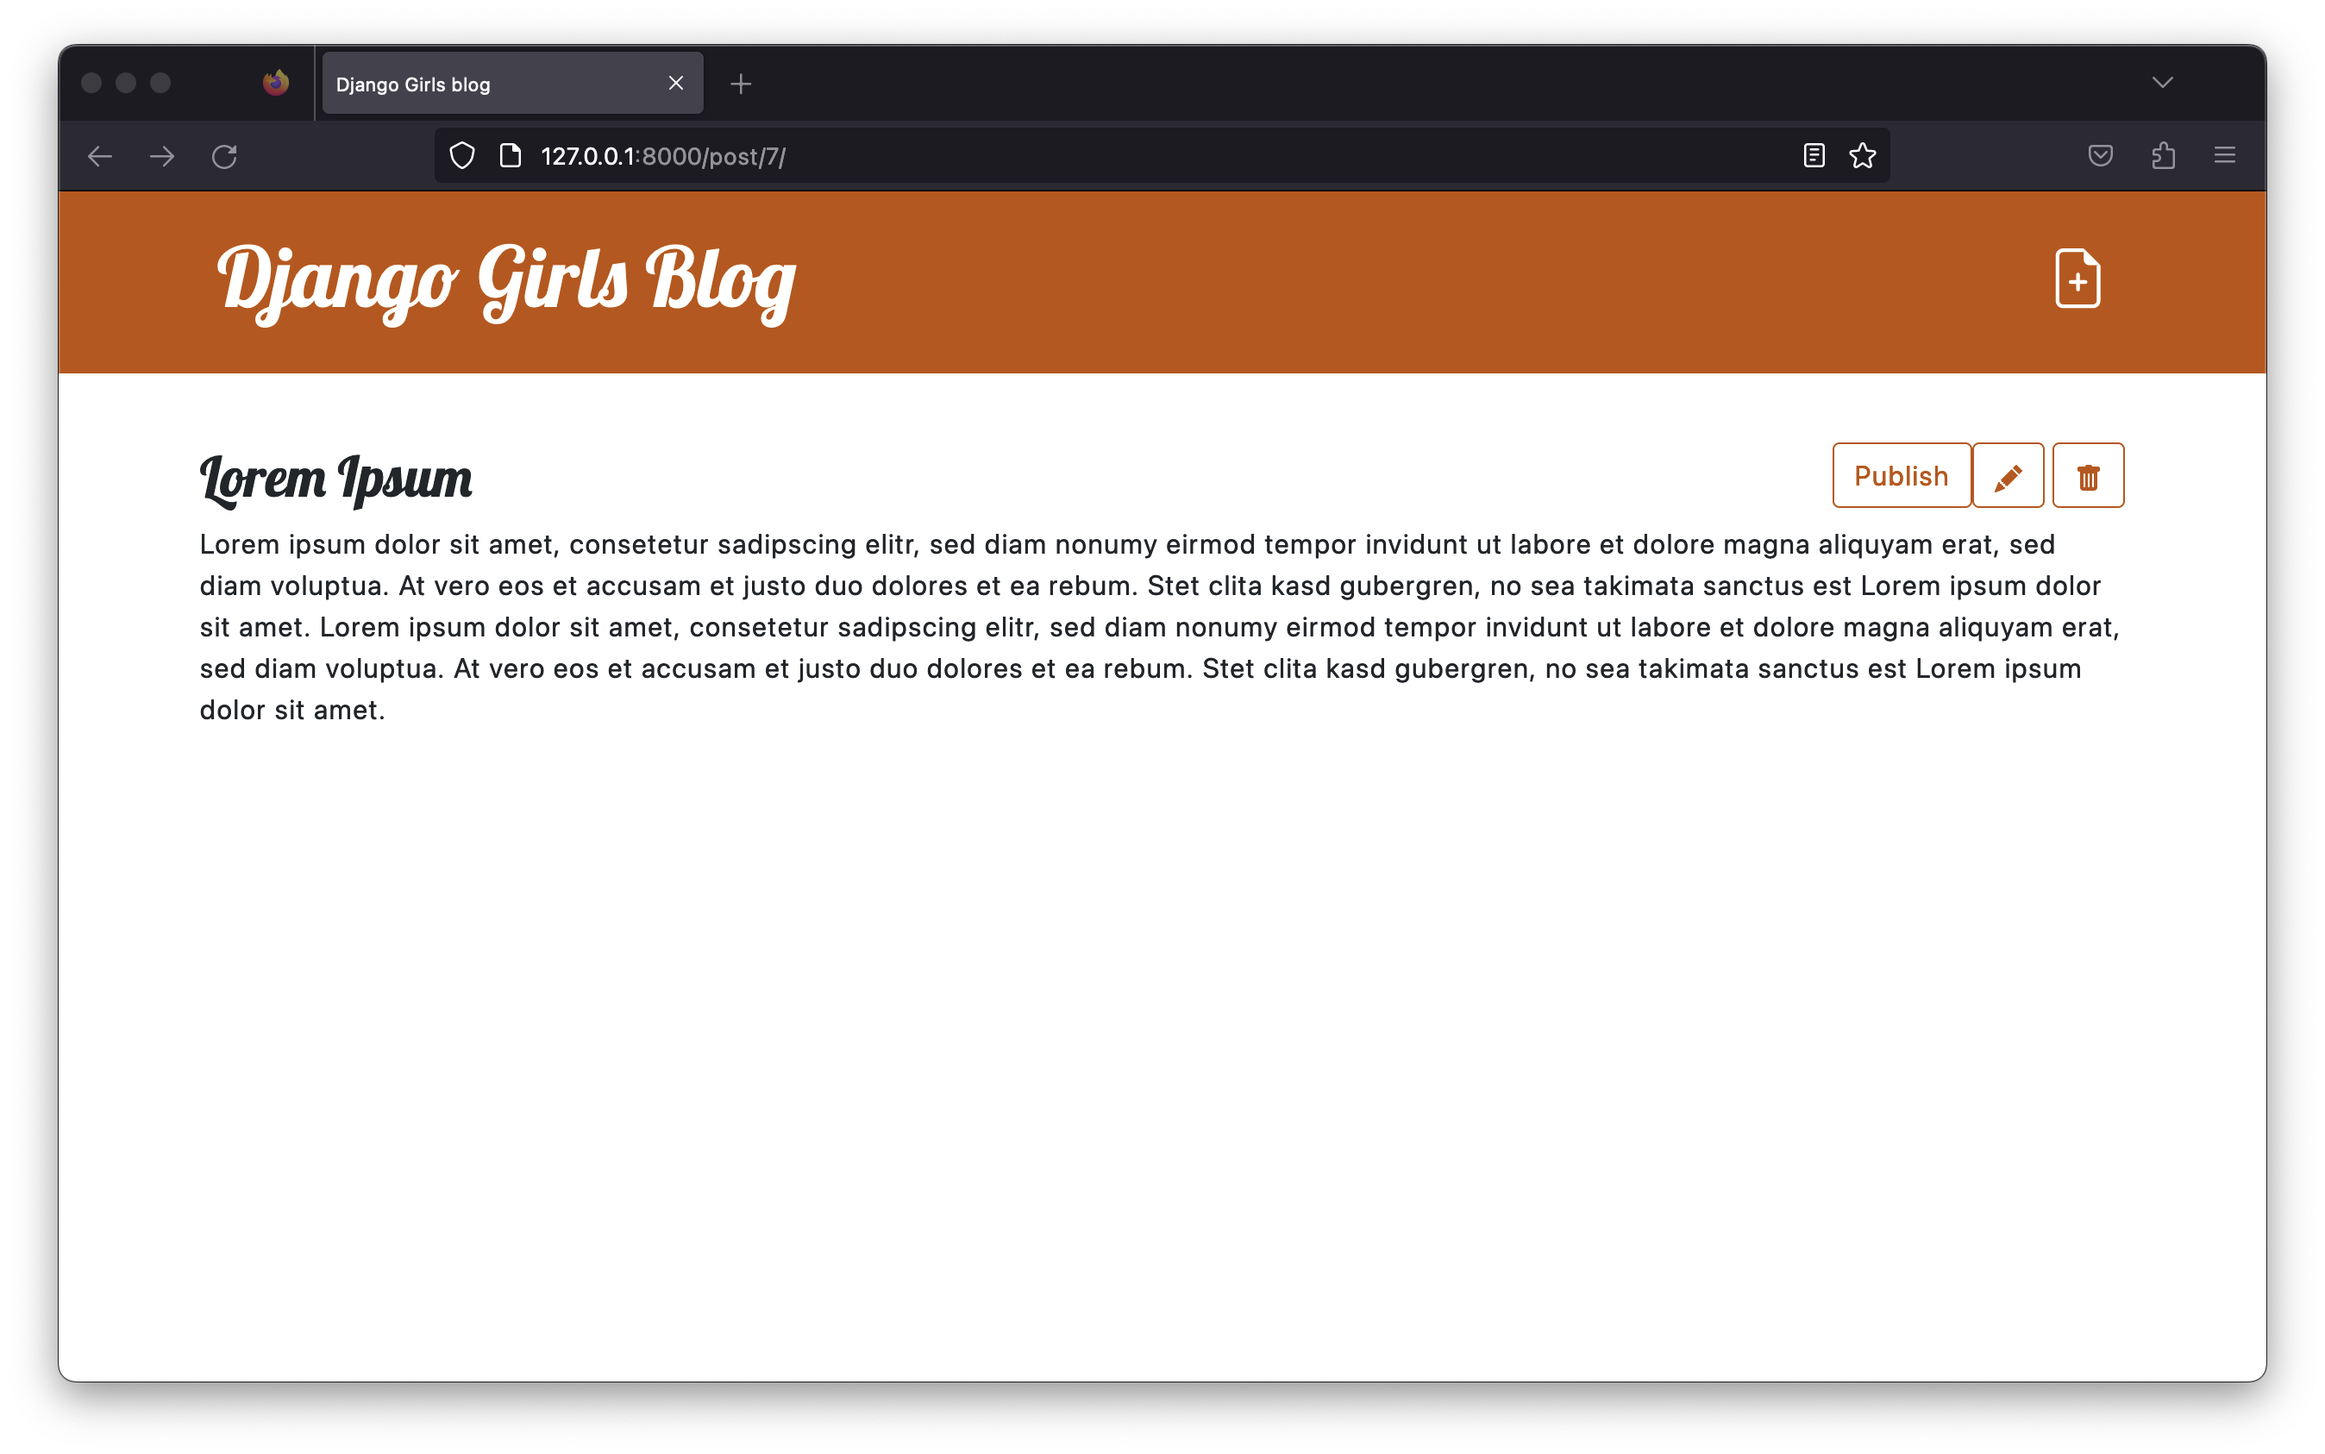
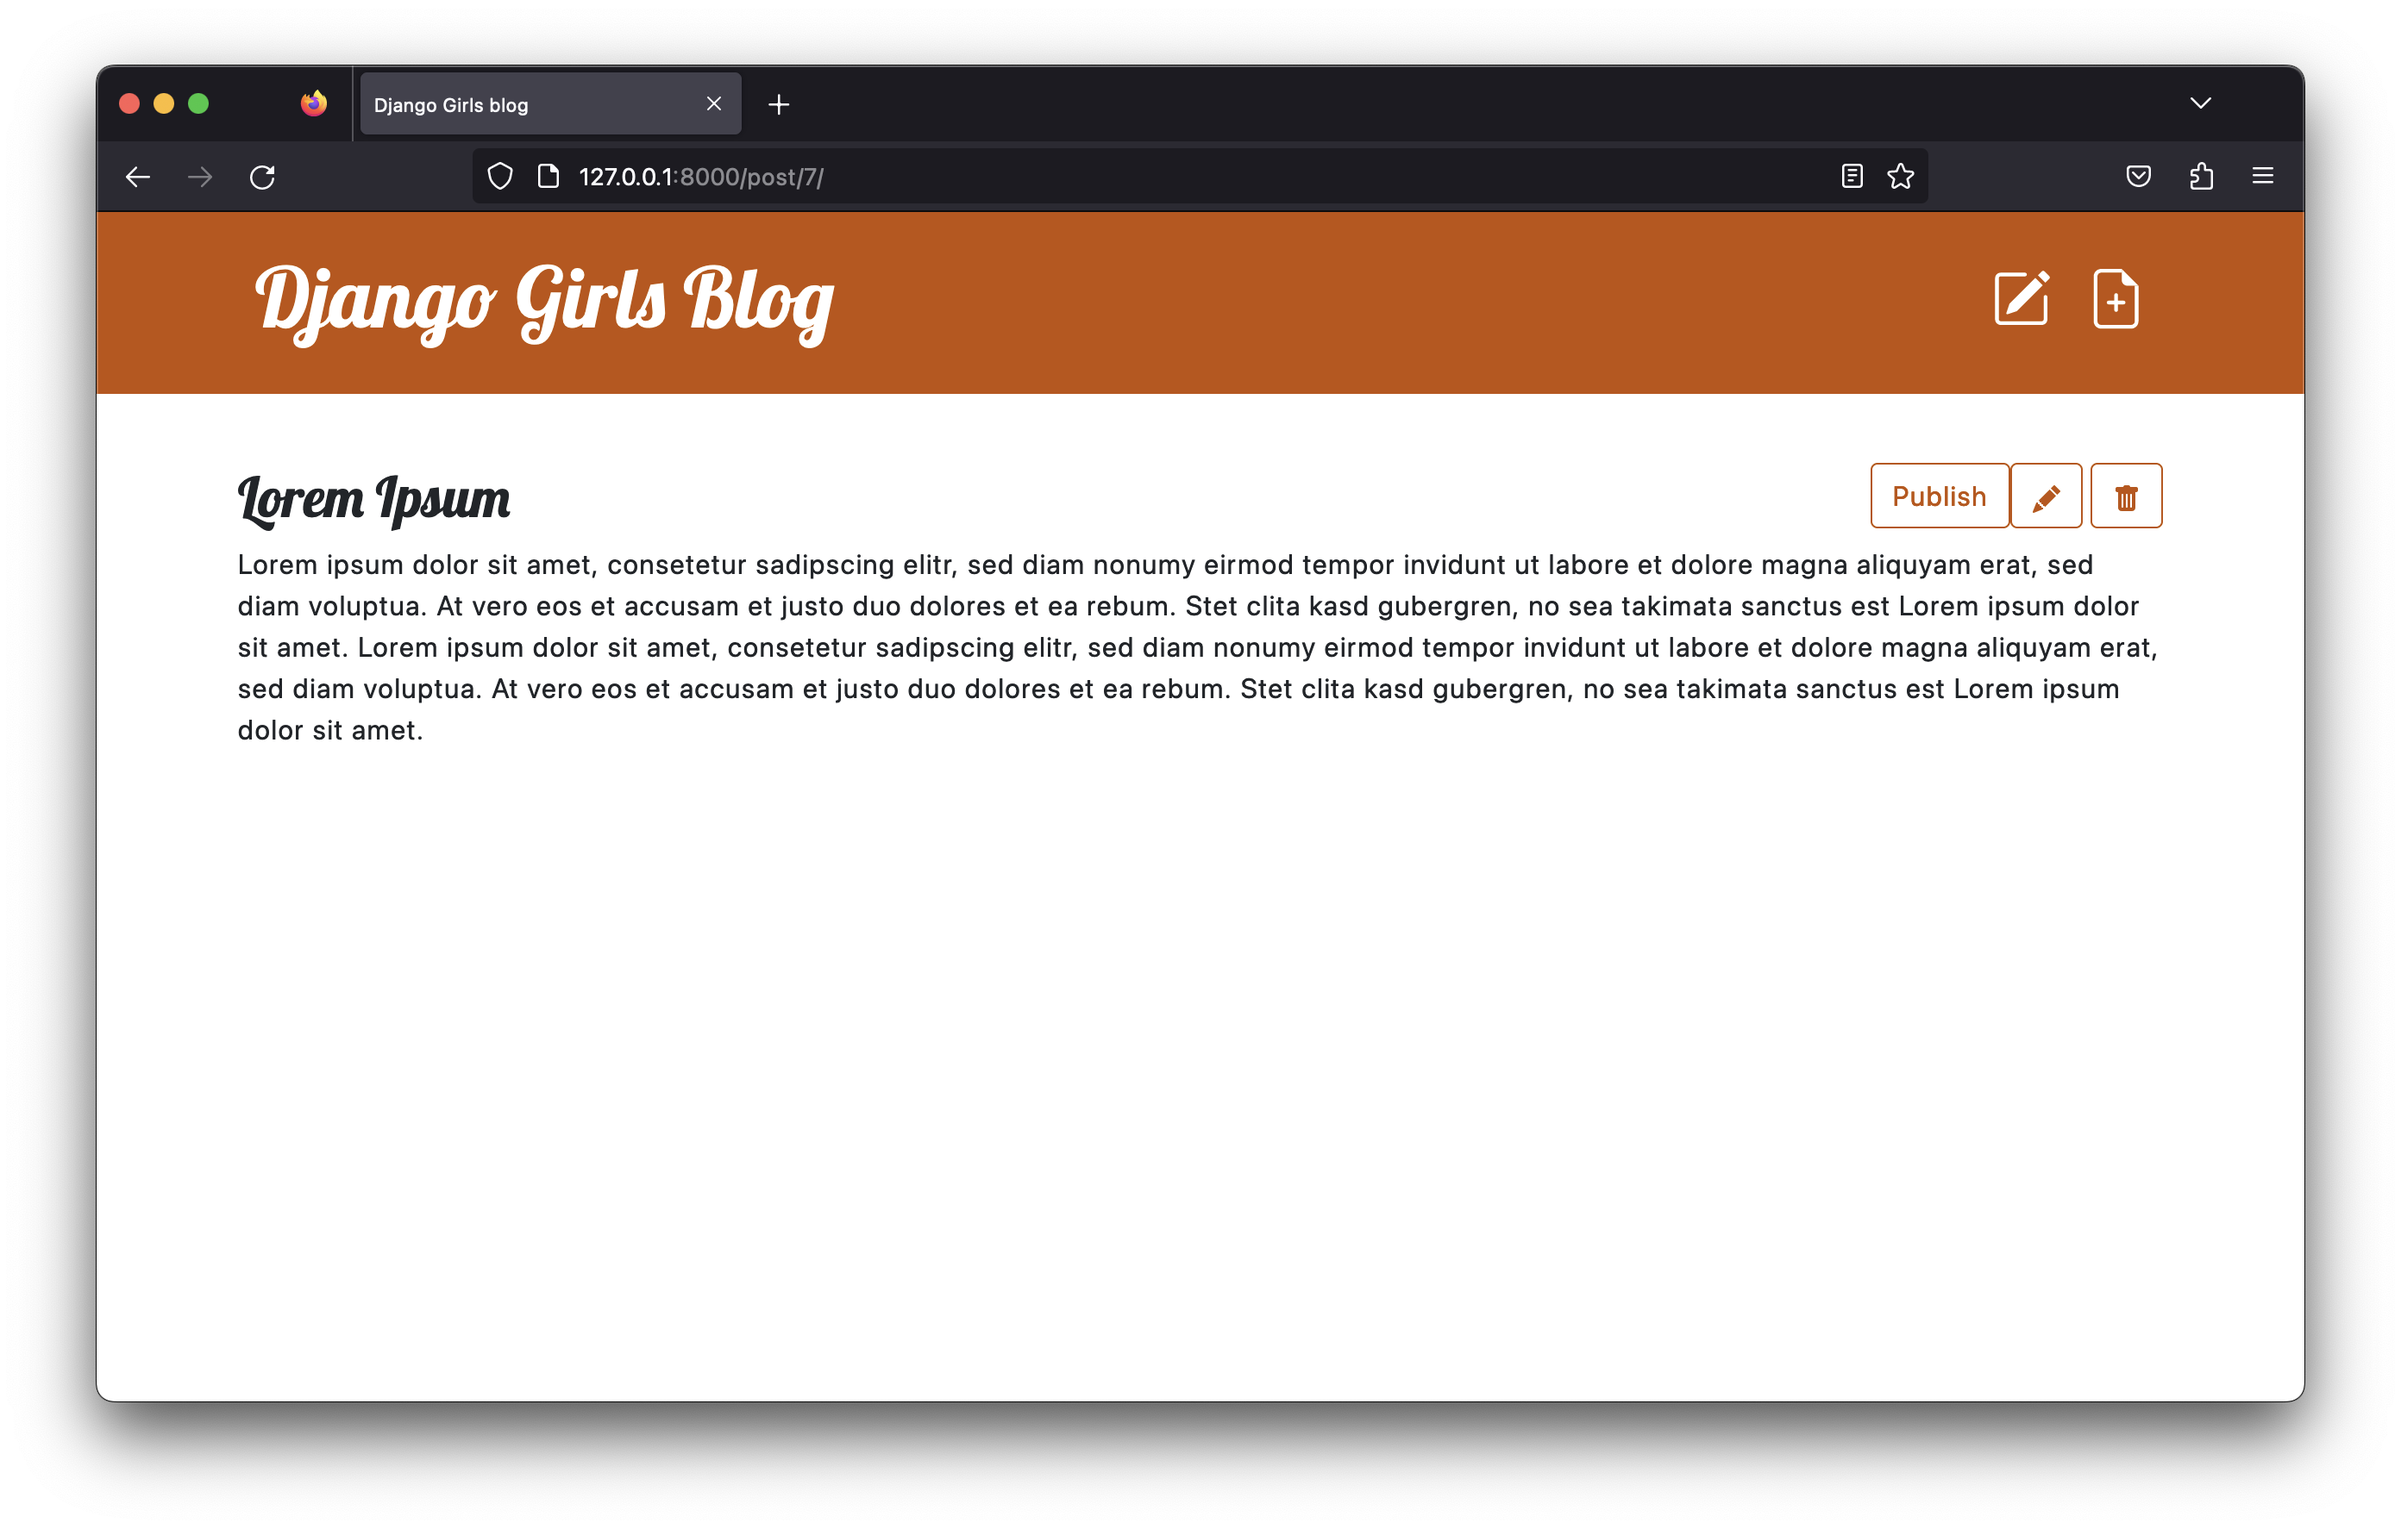
Update homework tutorial

Changed region(s): [[0.0, 0.0308, 0.997, 0.987]]

diff --git a/en/authentication_authorization/README.md b/en/authentication_authorization/README.md
@@ -96,30 +96,34 @@ We already set things up so that only authorized users (i.e. us) see the buttons
 We will add a login button that looks like this:
 
 ```django
-    <a href="{% url 'login' %}" class="top-menu"><span class="glyphicon glyphicon-lock"></span></a>
+    <a href="{% url 'login' %}" class="top-menu">{% include './icons/lock-fill.svg' %}</a>
 ```
 
 For this we need to edit the templates, so let's open up `blog/templates/blog/base.html` and change it so the part between the `<body>` tags looks like this:
 
 ```django
 <body>
-    <div class="page-header">
-        {% if user.is_authenticated %}
-            <a href="{% url 'post_new' %}" class="top-menu"><span class="glyphicon glyphicon-plus"></span></a>
-            <a href="{% url 'post_draft_list' %}" class="top-menu"><span class="glyphicon glyphicon-edit"></span></a>
-        {% else %}
-            <a href="{% url 'login' %}" class="top-menu"><span class="glyphicon glyphicon-lock"></span></a>
-        {% endif %}
-        <h1><a href="/">Django Girls Blog</a></h1>
-    </div>
-    <div class="content container">
+    <header class="page-header">
+        <div class="container">
+            {% if user.is_authenticated %}
+            <a href="{% url 'post_new' %}" class="top-menu">
+                {% include './icons/file-earmark-plus.svg' %}
+            </a>
+            <a href="{% url 'post_draft_list' %}" class="top-menu">{% include './icons/pencil-square.svg'%}</a>
+            {% else %}
+            <a href="{% url 'login' %}" class="top-menu">{% include './icons/lock-fill.svg' %}</a>
+            {% endif %}
+            <h1><a href="/">Django Girls Blog</a></h1>
+        </div>
+    </header>
+    <main class="content container">
         <div class="row">
-            <div class="col-md-8">
-            {% block content %}
-            {% endblock %}
+            <div class="col">
+                {% block content %}
+                {% endblock %}
             </div>
         </div>
-    </div>
+    </main>
 </body>
 ```
 
@@ -130,16 +134,20 @@ You might recognize the pattern here. There is an if-condition in the template t
 Let's add some sugar to our templates while we're at it. First we will add some details to show when we are logged in. Edit `blog/templates/blog/base.html` like this:
 
 ```django
-<div class="page-header">
-    {% if user.is_authenticated %}
-        <a href="{% url 'post_new' %}" class="top-menu"><span class="glyphicon glyphicon-plus"></span></a>
-        <a href="{% url 'post_draft_list' %}" class="top-menu"><span class="glyphicon glyphicon-edit"></span></a>
-        <p class="top-menu">Hello {{ user.username }} <small>(<a href="{% url 'logout' %}">Log out</a>)</small></p>
-    {% else %}
-        <a href="{% url 'login' %}" class="top-menu"><span class="glyphicon glyphicon-lock"></span></a>
-    {% endif %}
-    <h1><a href="/">Django Girls Blog</a></h1>
-</div>
+<header class="page-header">
+        <div class="container">
+            {% if user.is_authenticated %}
+            <a href="{% url 'post_new' %}" class="top-menu">
+                {% include './icons/file-earmark-plus.svg' %}
+            </a>
+            <a href="{% url 'post_draft_list' %}" class="top-menu">{% include './icons/pencil-square.svg'%}</a>
+            <p id="logout" class="top-menu">Hello {{ user.username }} <small><a href="{% url 'logout' %}">(Log out)</a></small></p>
+            {% else %}
+            <a href="{% url 'login' %}" class="top-menu">{% include './icons/lock-fill.svg' %}</a>
+            {% endif %}
+            <h1><a href="/">Django Girls Blog</a></h1>
+        </div>
+    </header>
 ```
 
 This adds a nice "Hello _&lt;username&gt;_" to remind us who we are logged in as, and that we are authenticated. Also, this adds a link to log out of the blog -- but as you might notice this isn't working yet. Let's fix it!
@@ -161,6 +169,23 @@ urlpatterns = [
     path('', include('blog.urls')),
 ]
 ```
+Let's also add this to our `blog.css` file for the proper styling of our login:
+
+```css
+#logout {
+    font-family: 'Lobster', cursive;
+
+}
+
+small a,
+small a:hover,
+small a:visited {
+    font-size: 15pt;
+    color: #ffffff;
+    text-decoration: none;
+}
+```
+![Publish button](images/loggdin.png)
 
 That's it! If you followed all of the above up to this point (and did the homework), you now have a blog where you
 

diff --git a/en/homework_create_more_models/README.md b/en/homework_create_more_models/README.md
@@ -158,7 +158,7 @@ from .models import Post, Comment
 Now, go to `blog/templates/blog/post_detail.html` and before the line {% raw %}`{% for comment in post.comments.all %}`{% endraw %}, add:
 
 ```django
-<a class="btn btn-default" href="{% url 'add_comment_to_post' pk=post.pk %}">Add comment</a>
+<a class="btn btn-secondary" role="button" href="{% url 'add_comment_to_post' pk=post.pk %}">Add comment</a>
 ```
 
 If you go to the post detail page you should see this error:
@@ -201,7 +201,7 @@ from .forms import PostForm, CommentForm
 
 Now, on the post detail page, you should see the "Add Comment" button.
 
-![AddComment](images/add_comment_button.png)
+![AddComment](images/add_comment_button1.png)
 
 However, when you click that button, you'll see:
 
@@ -214,11 +214,11 @@ Like the error tells us, the template doesn't exist yet. So, let's create a new 
 {% extends 'blog/base.html' %}
 
 {% block content %}
-    <h1>New comment</h1>
-    <form method="POST" class="post-form">{% csrf_token %}
-        {{ form.as_p }}
-        <button type="submit" class="save btn btn-default">Send</button>
-    </form>
+<h1>New comment</h1>
+<form method="POST" class="post-form">{% csrf_token %}
+    {{ form.as_p }}
+    <button type="submit" class="save btn btn-secondary">Send</button>
+</form>
 {% endblock %}
 ```
 

diff --git a/en/homework/README.md b/en/homework/README.md
@@ -21,7 +21,7 @@ Time to do something similar, but for draft posts.
 Let's add a link in `blog/templates/blog/base.html` in the header. We don't want to show our list of drafts to everybody, so we'll put it inside the {% raw %}`{% if user.is_authenticated %}`{% endraw %} check, right after the button for adding new posts.
 
 ```django
-<a href="{% url 'post_draft_list' %}" class="top-menu"><span class="glyphicon glyphicon-edit"></span></a>
+<a href="{% url 'post_draft_list' %}" class="top-menu">{% include './icons/pencil-square.svg'%}</a>
 ```
 
 Next: urls! In `blog/urls.py` we add:
